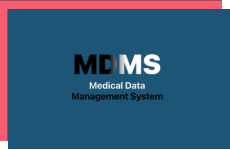
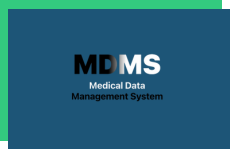
New colors and highlighted text in about

Changed region(s): [[0.0, 0.0, 0.9739, 0.96]]

diff --git a/index.html b/index.html
@@ -36,20 +36,20 @@
     <text class="title" id="about">About Me</text>
     <hr class="line">
     <div class="about">
-      <text class="about-text">Hello, I'm a computer science student at California State University
-        Sacramento graduating in 2025. I've previously interned for a 
+      <text class="about-text">Hello, I'm a computer science student at <span>California State University
+        Sacramento</span> graduating in 2025. I've previously <span>interned</span> for a 
         non-profit as a software engineer and made several contributions 
-        to an open-source project with over 17 million users.
+        to an <span>open-source</span> project with over 17 million users.
       </text>
 
-      <text class="about-text">Prior to the internship, I held a leadership position in a
+      <text class="about-text">Prior to the internship, I held a <span>leadership</span> position in a
         team of seven in developing a React project for a start-up company, 
-        and I soon found myself working on multiple personal projects.
+        and I soon found myself working on multiple <span>personal projects</span>.
       </text>
       
       <text class="about-text">My perseverance, desire to problem solve, and curiosity about 
         technology drive my interest in software development and engineering.
-        As a result, I always look forward to learning about new technologies and tech stacks.
+        As a result, I always look forward to <span>learning</span> about <span>new technologies</span> and tech stacks.
       </text>
 
       <text class="about-text">Outside of programming and school I enjoy messing around with
@@ -67,7 +67,7 @@
       <text class ="date">JUN 2023 - AUG 2023</text>
       <div class="exp-box">
         <text class="exp-title">CodeDay Labs Software Engineer Intern</text>
-        <text class="exp-text">Created several pull requests for <span style="color:#F85C70;">npm</span>, the world’s most popular open-source 
+        <text class="exp-text">Created several pull requests for <span>npm</span>, the world’s most popular open-source 
           JavaScript package manager, which delivered improvements related to error handling, documentation, 
           and publishing to over 17 million users.
         </text>
@@ -96,7 +96,7 @@
       <text class ="date">JAN 2023 - FEB 2023</text>
       <div class="exp-box">
         <text class="exp-title">CodeDay Software Engineer Micro-Intern</text>
-        <text class="exp-text">Resolved an account linking issue for <span style="color:#F85C70;">freeCodeCamp's Classroom mode</span>,
+        <text class="exp-text">Resolved an account linking issue for <span>freeCodeCamp's Classroom mode</span>,
            an open-source project designed to allow teachers to monitor students’ progress in 
           freeCodeCamp’s courses, which have over 1 million users.
         </text>
@@ -122,7 +122,7 @@
     <a class="exp project-btn" href="https://github.com/rahulio96/Digit-Recognition-App" target="_blank">
       <img src="images/digit-recog.png" class="proj-logo">
       <div class="exp-box">
-        <text class="exp-title">Digit Recognition <span color="white">(2023)</span></text>
+        <text class="exp-title">Digit Recognition <span class="white">(2023)</span></text>
         <text class="exp-text">Designed a web application using React.js and 
           a Flask API to allow users to draw digits and have a neural network I previously worked on to identify them.
         </text>
@@ -137,7 +137,7 @@
     <a class="exp project-btn" href="https://github.com/rahulio96/MNIST-Neural-Network" target="_blank">
       <img src="images/mnist.png" class="proj-logo">
       <div class="exp-box">
-        <text class="exp-title">MNIST Neural Network <span color="white">(2023)</span></text>
+        <text class="exp-title">MNIST Neural Network <span class="white">(2023)</span></text>
         <text class="exp-text">Developed and trained a neural network from scratch 
           to identify handwritten digits using the MNIST data set
         </text>
@@ -152,7 +152,7 @@
     <a class="exp project-btn" href="https://github.com/rahulio96/Pharmaceutical-Study-Web-App-Project" target="_blank">
       <img src="images/mdms.png" class="proj-logo">
       <div class="exp-box">
-        <text class="exp-title proj-title">Pharmaceutical Study <span color="white">(2023)</span></text>
+        <text class="exp-title proj-title">Pharmaceutical Study <span class="white">(2023)</span></text>
         <text class="exp-text">Co-led a team of seven and engineered an accessible and responsive 
           web app to simulate a pharmaceutical study with multiple views/accounts, patient/study management 
           systems, and information hiding for Vendia Inc.

diff --git a/styles.css b/styles.css
@@ -42,7 +42,7 @@ nav ul li a {
 
 nav ul li a:hover {
     transition: all 0.3s ease 0s;
-    color:#F85C70;
+    color:#33CA7F;
 }
 
 .burger {
@@ -68,11 +68,12 @@ nav ul li a:hover {
 
 .sub-title {
     font-size: x-large;
-    border-top: 4px solid #F85C70;
+    border-top: 2px solid #33CA7F;
     padding-top: 10px;
     margin: 0 auto;
     text-align: center;
     padding-bottom: 10%;
+    margin-top: 10%;
 }
 
 .title {
@@ -85,7 +86,7 @@ nav ul li a:hover {
 }
 
 .line {
-    border: 2px solid #F85C70;
+    border: 1px solid #33CA7F;
     margin: 0 auto;
     width: 15em;
     margin-bottom: 20px;
@@ -124,7 +125,7 @@ nav ul li a:hover {
 
 .exp-title {
     text-align: left;
-    color:#F85C70;
+    color:#33CA7F;
     font-size: 24px;
 }
 
@@ -172,9 +173,9 @@ nav ul li a:hover {
     background-color: transparent;
     width: 100%;
     height: 2.5em;
-    color: #F85C70;
+    color: #33CA7F;
     text-align: center;
-    border: 3px solid #F85C70;
+    border: 2px solid #33CA7F;
     cursor: pointer;
     font-size: large;
     padding: 2.5%;
@@ -202,7 +203,7 @@ nav ul li a:hover {
     padding-left: 2%;
     padding-right: 2%;
     margin-right: 10px;
-    border: 1px solid #F85C70;
+    border: 1px solid #33CA7F;
     margin-bottom: 1px;
 }
 
@@ -227,7 +228,7 @@ nav ul li a:hover {
 }
   
 .big-btn:hover {
-    background-color: #F85C70;
+    background-color: #33CA7F;
     color: white;
 }
 
@@ -278,7 +279,7 @@ nav ul li a:hover {
 }
 
 .mail-link:hover {
-    color:#F85C70;
+    color:#33CA7F;
     text-decoration: underline;
 }
 
@@ -289,6 +290,14 @@ footer nav {
     padding: 18px 10%;
     border-top: 1px solid #E1DDDD;
     margin-top: 0;
+}
+
+span {
+    color:#33CA7F;
+}
+
+.white {
+    color: white;
 }
 
 @media only screen and (max-width: 780px) {
@@ -322,7 +331,7 @@ footer nav {
     }
 
     .burger.change {
-        color:#F85C70;
+        color:#33CA7F;
     }
 
     .burger {
